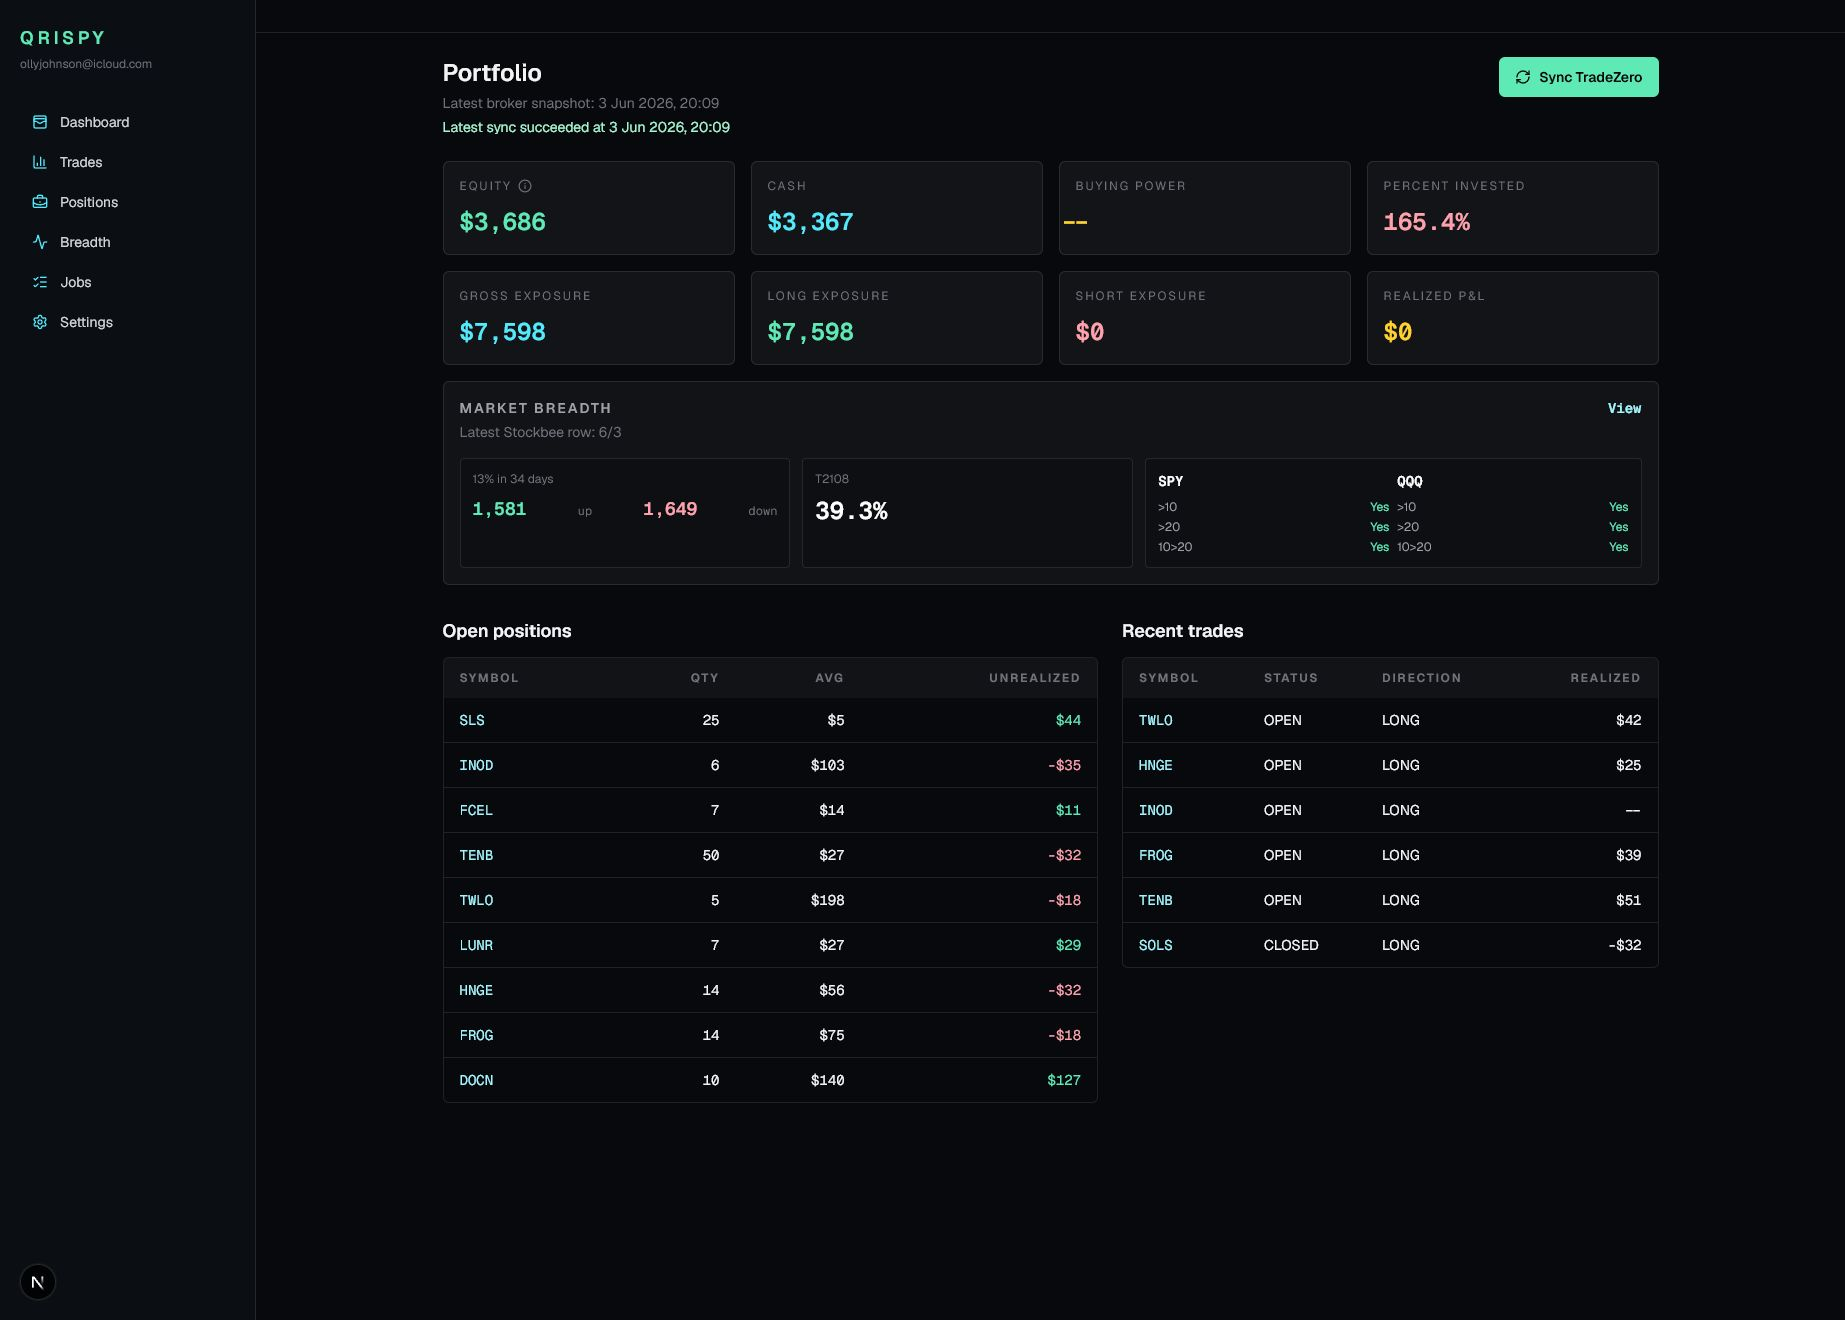
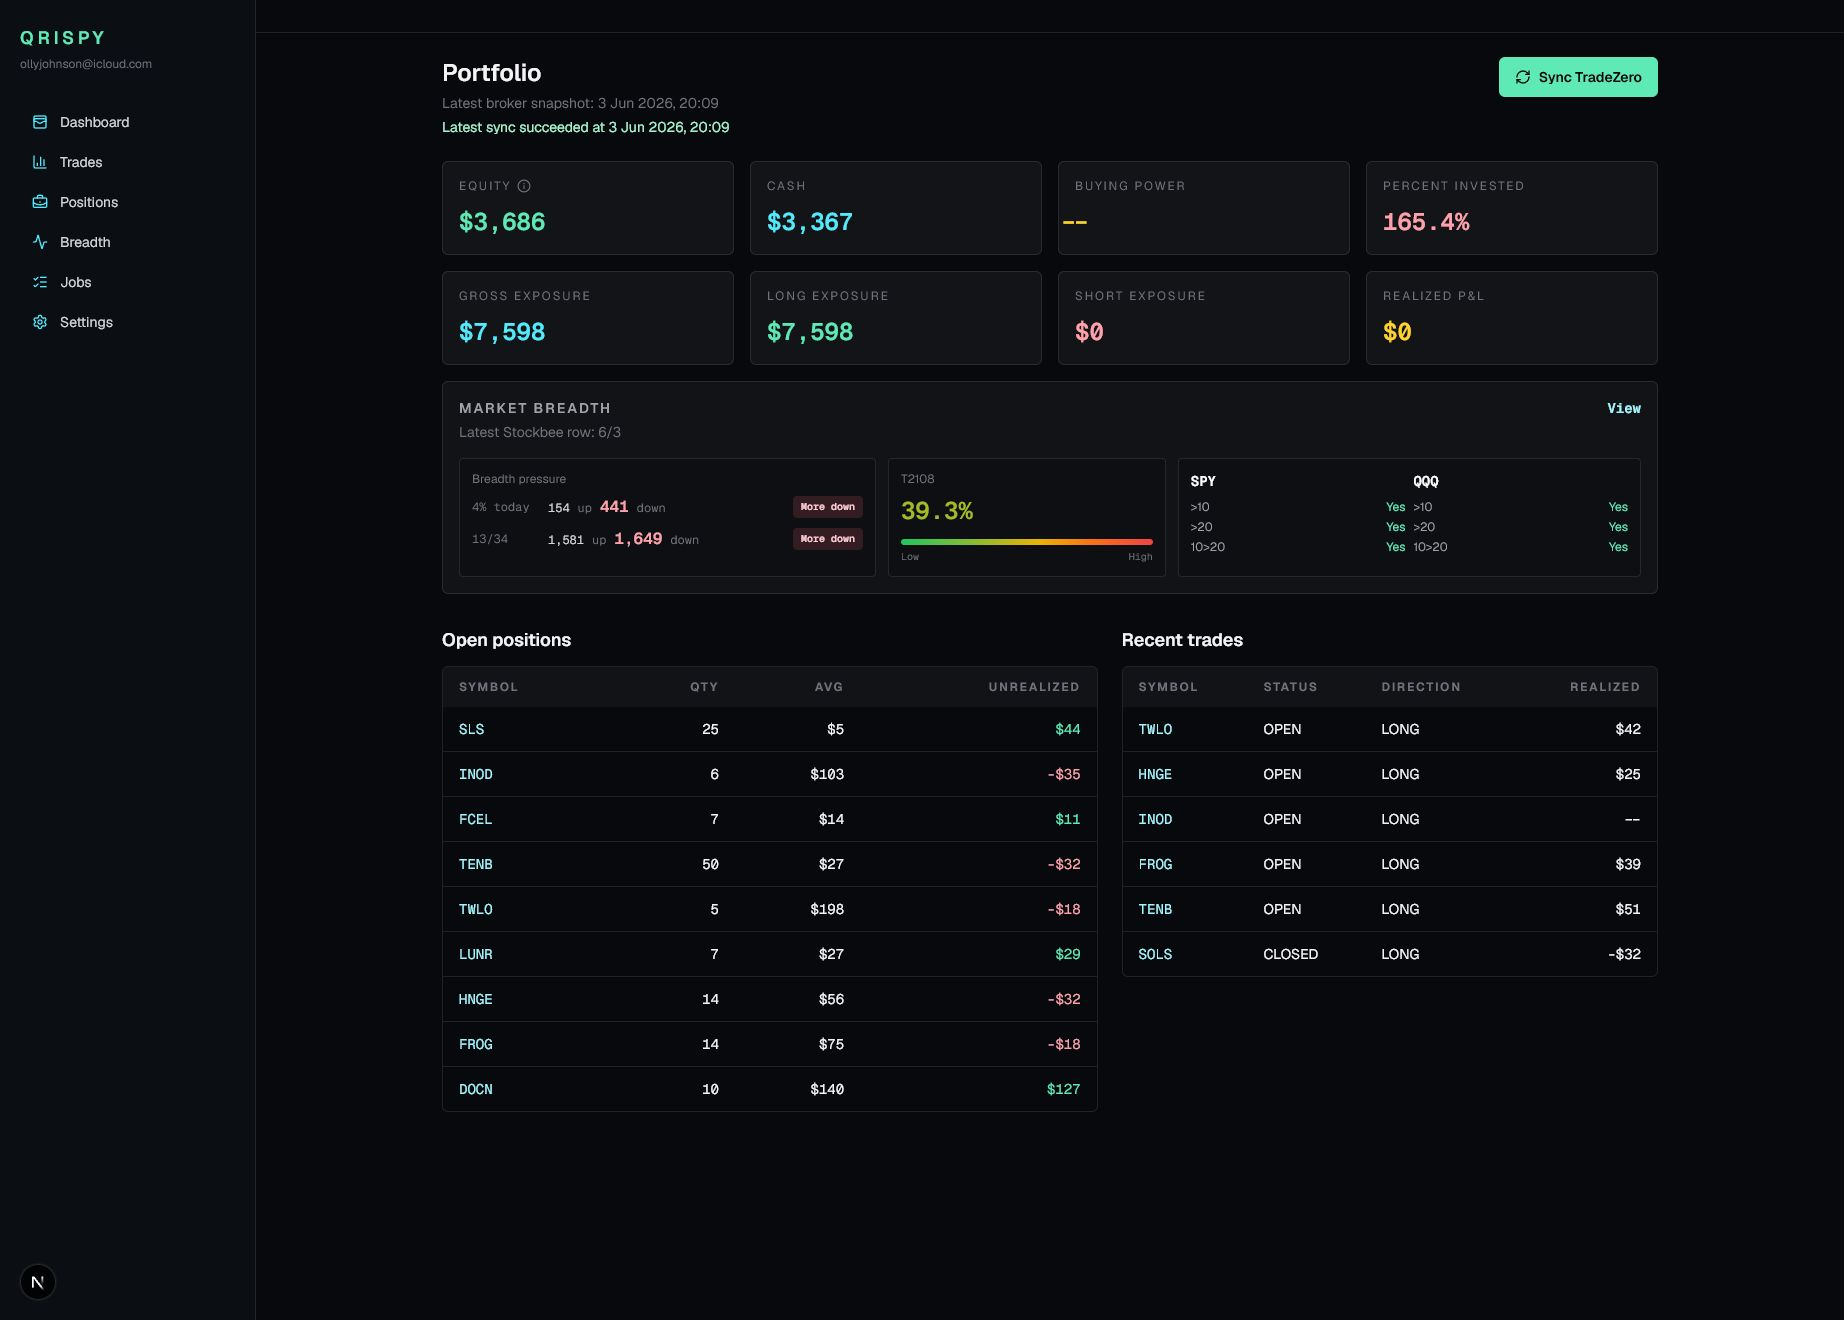
Clarify dashboard breadth pressure

diff --git a/src/app/dashboard/page.tsx b/src/app/dashboard/page.tsx
@@ -11,6 +11,8 @@ import {
   buildDashboardBreadthSnapshot,
   getMarketIndexBreadthSummaries,
   getStockbeeMarketBreadth,
+  t2108Color,
+  type BreadthBias,
   type DashboardBreadthSnapshot,
 } from "@/lib/market-data/breadth";
 import { createMassiveMarketDataProvider } from "@/lib/market-data/massive";
@@ -162,24 +164,43 @@ function DashboardBreadthCard({
         </div>
         <div className="font-mono text-sm font-semibold text-cyan-200">View</div>
       </div>
-      <div className="mt-4 grid gap-3 md:grid-cols-[1fr_1fr_1.5fr]">
+      <div className="mt-4 grid gap-3 md:grid-cols-[1.35fr_0.9fr_1.5fr]">
         <div className="rounded border border-white/10 bg-black/20 p-3">
-          <div className="text-xs text-zinc-500">13% in 34 days</div>
-          <div className="mt-2 flex items-baseline justify-between gap-3 font-mono">
-            <span className="text-lg font-semibold text-emerald-300">
-              {formatBreadthCount(breadth.up13In34Days)}
-            </span>
-            <span className="text-xs text-zinc-500">up</span>
-            <span className="text-lg font-semibold text-rose-300">
-              {formatBreadthCount(breadth.down13In34Days)}
-            </span>
-            <span className="text-xs text-zinc-500">down</span>
+          <div className="text-xs text-zinc-500">Breadth pressure</div>
+          <div className="mt-2 grid gap-2">
+            <BreadthPressureRow
+              bias={breadth.fourPercentBias}
+              down={breadth.down4Percent}
+              label="4% today"
+              up={breadth.up4Percent}
+            />
+            <BreadthPressureRow
+              bias={breadth.thirteenThirtyFourBias}
+              down={breadth.down13In34Days}
+              label="13/34"
+              up={breadth.up13In34Days}
+            />
           </div>
         </div>
         <div className="rounded border border-white/10 bg-black/20 p-3">
           <div className="text-xs text-zinc-500">T2108</div>
-          <div className="mt-2 font-mono text-2xl font-semibold text-white">
+          <div
+            className="mt-2 font-mono text-2xl font-semibold"
+            style={{ color: t2108Color(breadth.t2108) }}
+          >
             {formatBreadthPercent(breadth.t2108)}
+          </div>
+          <div
+            aria-hidden="true"
+            className="mt-3 h-1.5 rounded-full"
+            style={{
+              background:
+                "linear-gradient(90deg, #22c55e 0%, #eab308 55%, #f97316 75%, #ef4444 100%)",
+            }}
+          />
+          <div className="mt-1 flex justify-between font-mono text-[10px] text-zinc-500">
+            <span>Low</span>
+            <span>High</span>
           </div>
         </div>
         <div className="rounded border border-white/10 bg-black/20 p-3">
@@ -200,6 +221,45 @@ function DashboardBreadthCard({
         </div>
       </div>
     </Link>
+  );
+}
+
+function BreadthPressureRow({
+  bias,
+  down,
+  label,
+  up,
+}: {
+  bias: BreadthBias;
+  down: number | null;
+  label: string;
+  up: number | null;
+}) {
+  return (
+    <div className="grid grid-cols-[4rem_1fr_auto] items-center gap-3 font-mono text-xs">
+      <span className="text-zinc-500">{label}</span>
+      <span className="flex min-w-0 items-baseline gap-2">
+        <span className={bias === "up" ? "text-base font-semibold text-emerald-300" : "text-zinc-300"}>
+          {formatBreadthCount(up)}
+        </span>
+        <span className="text-zinc-500">up</span>
+        <span className={bias === "down" ? "text-base font-semibold text-rose-300" : "text-zinc-300"}>
+          {formatBreadthCount(down)}
+        </span>
+        <span className="text-zinc-500">down</span>
+      </span>
+      <span
+        className={`rounded px-2 py-1 text-[10px] font-semibold ${
+          bias === "up"
+            ? "bg-emerald-400/15 text-emerald-200"
+            : bias === "down"
+              ? "bg-rose-400/15 text-rose-200"
+              : "bg-zinc-800 text-zinc-400"
+        }`}
+      >
+        {breadthBiasLabel(bias)}
+      </span>
+    </div>
   );
 }
 
@@ -315,6 +375,20 @@ function formatShortDate(value: string) {
   const [, month, day] = value.split("-");
 
   return `${Number(month)}/${Number(day)}`;
+}
+
+function breadthBiasLabel(value: BreadthBias) {
+  if (value === "up") {
+    return "More up";
+  }
+  if (value === "down") {
+    return "More down";
+  }
+  if (value === "flat") {
+    return "Even";
+  }
+
+  return "--";
 }
 
 function TradesTable({

diff --git a/src/lib/market-data/breadth.ts b/src/lib/market-data/breadth.ts
@@ -42,11 +42,17 @@ export type MarketIndexBreadthSummary = {
 
 export type DashboardBreadthSnapshot = {
   date: string | null;
+  up4Percent: number | null;
+  down4Percent: number | null;
+  fourPercentBias: BreadthBias;
   up13In34Days: number | null;
   down13In34Days: number | null;
+  thirteenThirtyFourBias: BreadthBias;
   t2108: number | null;
   indexes: DashboardBreadthIndexStatus[];
 };
+
+export type BreadthBias = "down" | "flat" | "up" | null;
 
 export type DashboardBreadthIndexStatus = {
   symbol: string;
@@ -122,8 +128,15 @@ export function buildDashboardBreadthSnapshot(
 
   return {
     date: latest?.date ?? null,
+    up4Percent: latest?.up4Percent ?? null,
+    down4Percent: latest?.down4Percent ?? null,
+    fourPercentBias: breadthBias(latest?.up4Percent, latest?.down4Percent),
     up13In34Days: latest?.up13In34Days ?? null,
     down13In34Days: latest?.down13In34Days ?? null,
+    thirteenThirtyFourBias: breadthBias(
+      latest?.up13In34Days,
+      latest?.down13In34Days,
+    ),
     t2108: latest?.t2108 ?? null,
     indexes: ["SPY", "QQQ"].map((symbol) => {
       const summary = indexBySymbol.get(symbol);
@@ -136,6 +149,27 @@ export function buildDashboardBreadthSnapshot(
       };
     }),
   };
+}
+
+export function t2108Color(value: number | null) {
+  if (value == null) {
+    return "#71717a";
+  }
+
+  if (value <= 20) {
+    return "#22c55e";
+  }
+  if (value <= 50) {
+    return interpolateColor("#22c55e", "#eab308", (value - 20) / 30);
+  }
+  if (value <= 70) {
+    return interpolateColor("#eab308", "#f97316", (value - 50) / 20);
+  }
+  if (value <= 90) {
+    return interpolateColor("#f97316", "#ef4444", (value - 70) / 20);
+  }
+
+  return "#ef4444";
 }
 
 export async function getMarketIndexBreadthSummaries(input: {
@@ -300,6 +334,35 @@ function compareGreater(left: number | null, right: number | null) {
   }
 
   return left > right;
+}
+
+function breadthBias(
+  up: number | null | undefined,
+  down: number | null | undefined,
+): BreadthBias {
+  if (up == null || down == null) {
+    return null;
+  }
+  if (up === down) {
+    return "flat";
+  }
+
+  return up > down ? "up" : "down";
+}
+
+function interpolateColor(from: string, to: string, ratio: number) {
+  const boundedRatio = Math.min(1, Math.max(0, ratio));
+  const fromRgb = rgbFromHex(from);
+  const toRgb = rgbFromHex(to);
+  const rgb = fromRgb.map((channel, index) =>
+    Math.round(channel + (toRgb[index] - channel) * boundedRatio),
+  );
+
+  return `#${rgb.map((channel) => channel.toString(16).padStart(2, "0")).join("")}`;
+}
+
+function rgbFromHex(hex: string) {
+  return [1, 3, 5].map((start) => Number.parseInt(hex.slice(start, start + 2), 16));
 }
 
 function emptyMarketIndexSummary(symbol: string): MarketIndexBreadthSummary {

diff --git a/src/lib/market-data/breadth.test.ts b/src/lib/market-data/breadth.test.ts
@@ -5,6 +5,7 @@ import {
   buildMarketBreadthSnapshot,
   parseStockbeeMarketMonitorCsv,
   summarizeMarketIndexBars,
+  t2108Color,
 } from "./breadth";
 import type { OhlcvBar } from "./types";
 
@@ -112,8 +113,12 @@ describe("buildDashboardBreadthSnapshot", () => {
 
     expect(snapshot).toEqual({
       date: "2026-06-03",
+      up4Percent: 154,
+      down4Percent: 441,
+      fourPercentBias: "down",
       up13In34Days: 1581,
       down13In34Days: 1649,
+      thirteenThirtyFourBias: "down",
       t2108: 39.31,
       indexes: [
         {
@@ -130,6 +135,15 @@ describe("buildDashboardBreadthSnapshot", () => {
         },
       ],
     });
+  });
+});
+
+describe("t2108Color", () => {
+  it("moves from green to yellow/orange to red as T2108 rises", () => {
+    expect(t2108Color(10)).toBe("#22c55e");
+    expect(t2108Color(50)).toBe("#eab308");
+    expect(t2108Color(70)).toBe("#f97316");
+    expect(t2108Color(90)).toBe("#ef4444");
   });
 });
 